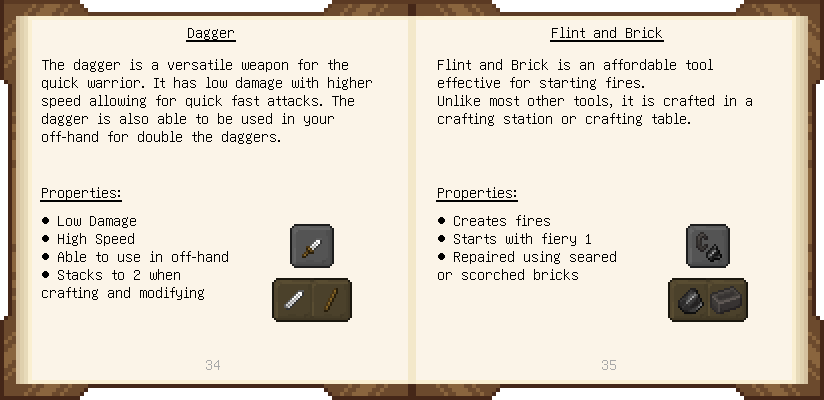
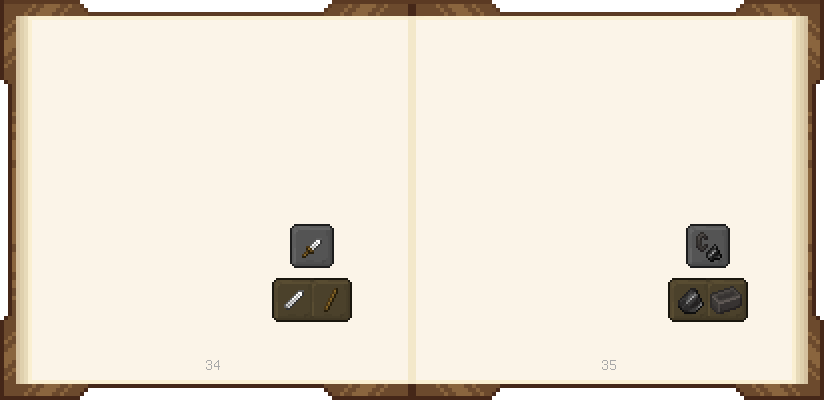
Updated assets and styling
Took 47 minutes

diff --git a/assets/css/slimeknights.scss b/assets/css/slimeknights.scss
@@ -81,7 +81,7 @@ h2 {
     &.uk-button-primary, &.uk-button-danger {
         color: #fff !important;
     }
-    
+
     &:not(:last-child) {
         margin-bottom: 5px;
     }
@@ -95,7 +95,7 @@ h2 {
     background-color: #32a852;
     color: #fff !important;
     border: 1px solid transparent;
-    
+
     &:hover {
         background-color: #2e994b;
     }
@@ -112,14 +112,14 @@ h2 {
 .section-list {
     ol {
       /* Creates a new instance of the section counter with each ol element */
-      counter-reset: section;                
+      counter-reset: section;
       list-style-type: none;
     }
     li:before {
       /* Increments only this instance of the section counter */
-      counter-increment: section;        
-      /* Adds the value of all instances of the section counter separated by a ".". */      
-      content: counters(section, ".") " ";   
+      counter-increment: section;
+      /* Adds the value of all instances of the section counter separated by a ".". */
+      content: counters(section, ".") " ";
     }
 }
 
@@ -127,7 +127,7 @@ h2 {
     width: max-content;
     font-size: small;
     max-width: 100%;
-    
+
     .uk-open .uk-accordion-title {
         margin-bottom: -15px;
     }
@@ -220,13 +220,12 @@ em {
     }
 }
 
-/* TODO: For testing */
 @font-face {
     font-family: "minecraft-unicode";
     src: url("../fonts/minecraft-unicode.ttf");
 }
 
-.book-pages {
+.book-page {
     position: relative;
     image-rendering: pixelated;
     width: 824px;
@@ -250,14 +249,16 @@ em {
 .grid-content {
     display: grid;
     grid-template-columns: repeat(3, 1fr);
-    width: 279px;
-    height: 184px;
+    width: 282px;
     position: absolute;
     left: 42px;
     top: 104px;
     text-align: center;
+    row-gap: 50px;
     p {
+        height: 40px;
         margin: 0;
+        overflow: hidden;
     }
 }
 
@@ -265,10 +266,9 @@ em {
     margin-top: 8px;
     padding-inline-start: 16px;
     list-style-type: "- ";
-}
-
-.link-list li::marker {
-    color: #A80000;
+    li::marker {
+        color: #A80000;
+    }
 }
 
 .prop-list {

diff --git a/_includes/book/pages.html b/_includes/book/pages.html
@@ -4,15 +4,15 @@
 </p>
 
 <div uk-lightbox="animation: slide; toggle: .book-page">
-    <div class="uk-child-width-1-1 uk-grid-collapse" uk-grid>
+    <div class="uk-child-width-1-1 uk-grid-collapse">
         {%- unless include.book.no_cover -%}
             {%- capture pagePath -%}
                 /assets/images/book/{{include.book.path}}/cover.png
             {%- endcapture -%}
-            <div class="uk-width-1-2 uk-width-1-6@s">
-                <a class="uk-lineline book-page" href="{{pagePath}}" data-attrs="class: book-cover">
+            <div class="uk-width-1-2">
+<!--                <a class="uk-lineline book-page" href="{{pagePath}}" data-attrs="class: book-cover">-->
                     <img src="{{pagePath}}" alt=""/>
-                </a>
+<!--                </a>-->
             </div>
         {%- endunless -%}
         {%- assign titleIndex = 0 -%}
@@ -27,15 +27,12 @@
             {%- capture pagePath -%}
                 /assets/images/book/{{include.book.path}}/page_{{pageIndex}}.png
             {%- endcapture -%}
-            <div class="mc-font-black">
+            <div class="mc-font-black book-page uk-margin">
 <!--                <a class="uk-lineline book-page" href="{{pagePath}}" data-attrs="class: book-page">-->
-                <div class="book-pages">
-                    <img src="test_{{pageIndex}}.png" alt=""/>
+                    <img src="{{pagePath}}" alt=""/>
                     {% if include.book.path == "tinkers/3.10.1/materials_and_you" %}
                         {% include book/{{include.book.path}}/page_{{pageIndex}}.html pageIndex=pageIndex %}
                     {% endif %}
-                </div>
-                <img src="{{pagePath}}" alt=""/>
 <!--                </a>-->
             </div>
         {%- endfor -%}

diff --git a/_includes/book/tinkers/3.10.1/materials_and_you/page_0.html b/_includes/book/tinkers/3.10.1/materials_and_you/page_0.html
@@ -4,8 +4,8 @@
 <div class="right">
 <div class="grid-content mc-font-gray">
     <p>Introduction</p>
-<p>Tier 1 General</p>
-<p>Tier 1 Ranged</p>
+<p>Tier 1 General Materials</p>
+<p>Tier 1 Ranged Materials</p>
 <p>Tools</p>
 <p>Modifiers</p>
 <p>Further Reading</p>

diff --git a/_layouts/home.html b/_layouts/home.html
@@ -8,7 +8,7 @@ layout: default
   {%- endif -%}
 
   {{ content }}
-  
+
   {%- if site.paginate %}
     {%- assign posts = paginator.posts -%}
   {%- else -%}
